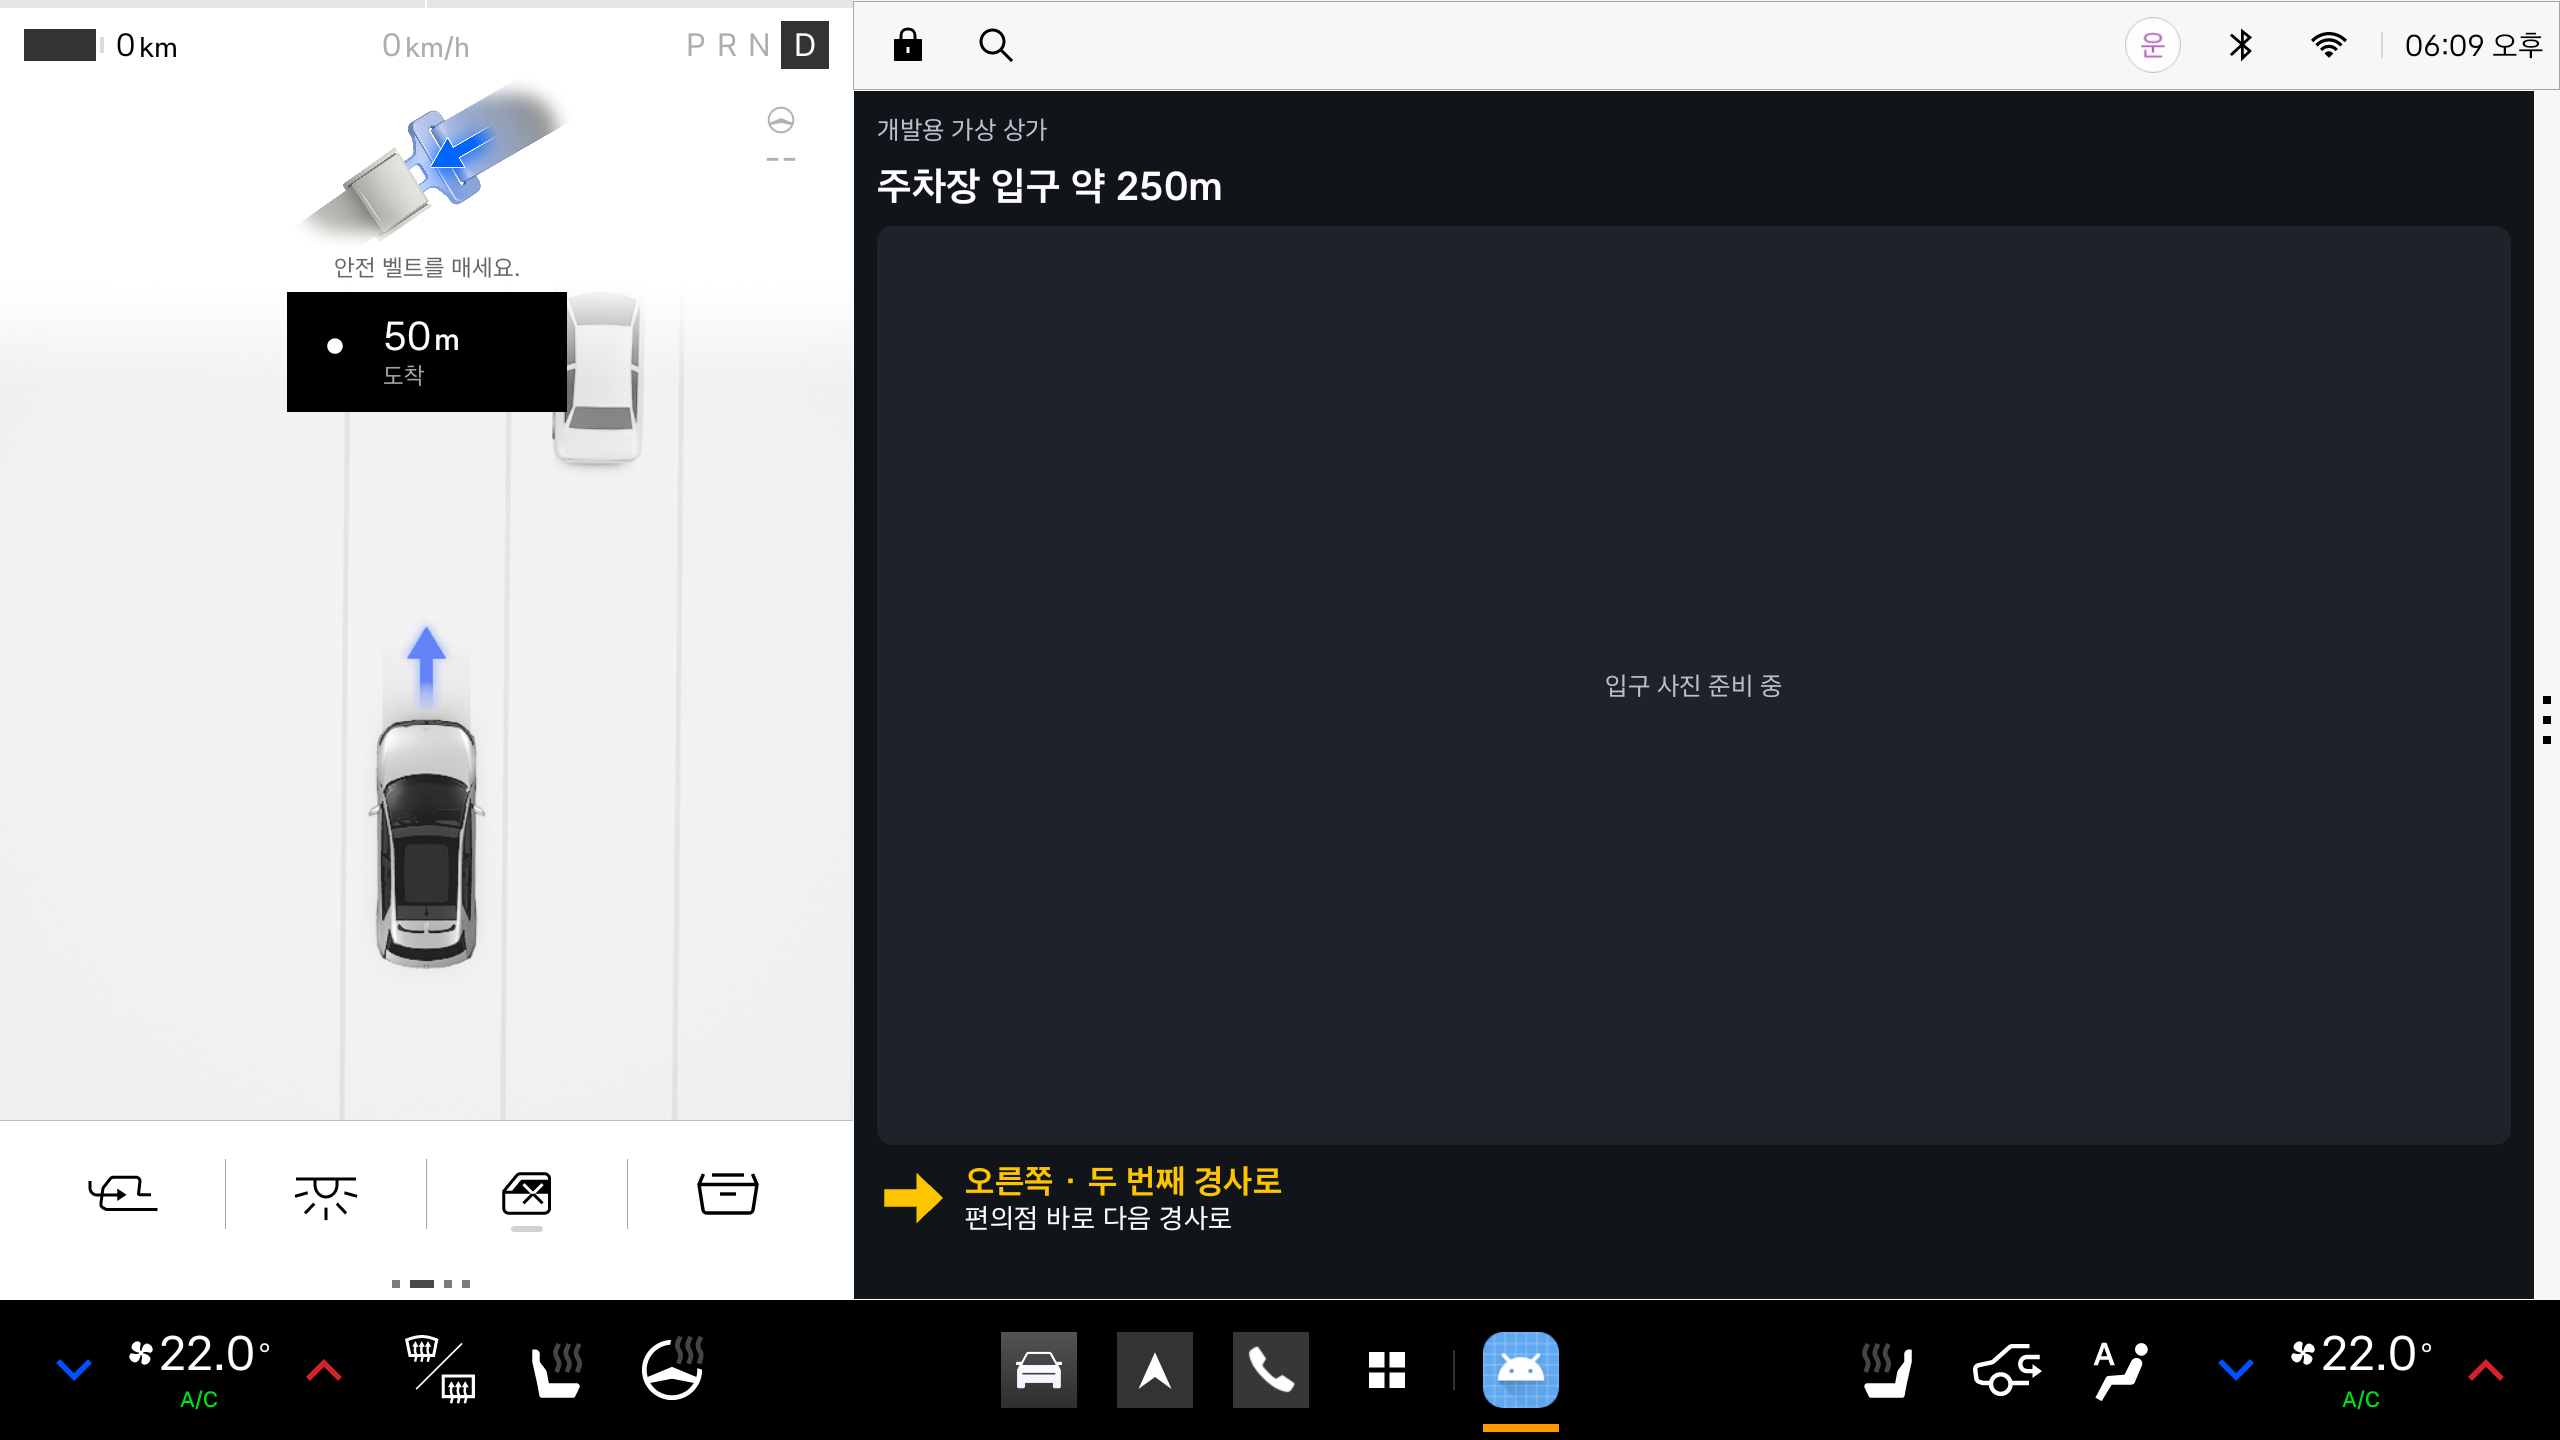
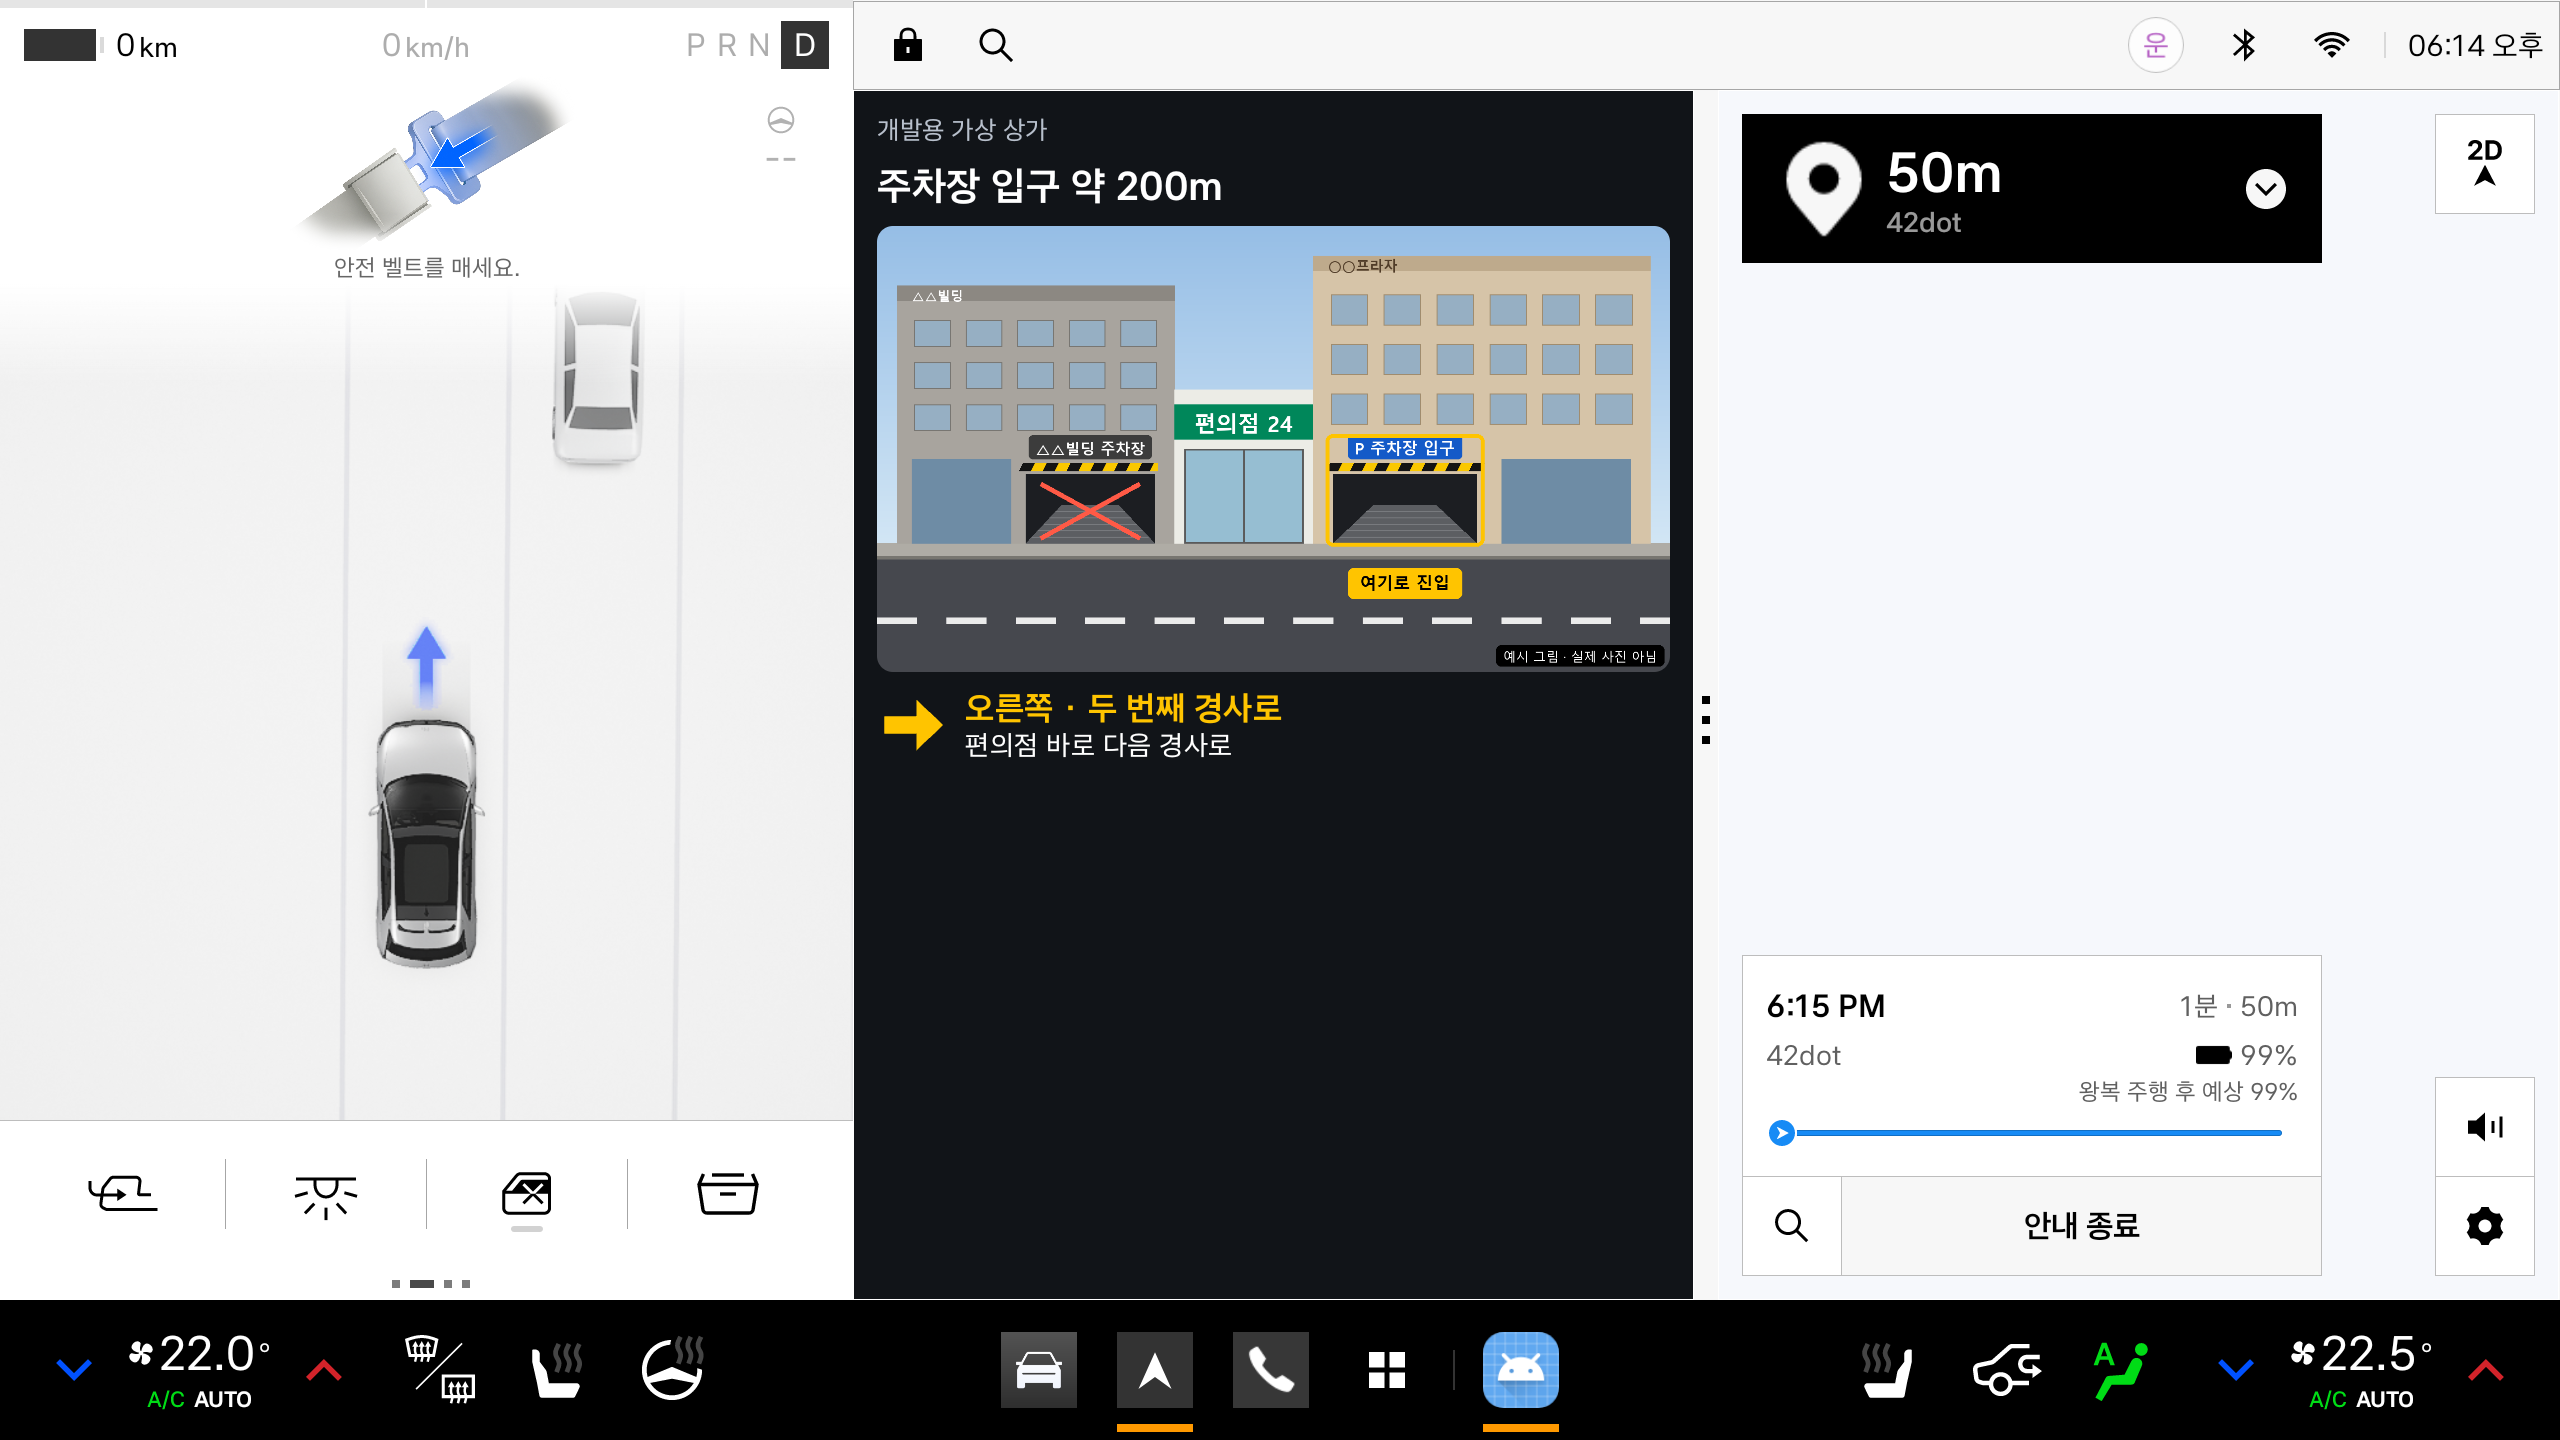
Add illustrated example entrance images and show near photo at the entrance
The two images are drawings marked as examples, not real photos. They stand in
until the team collects real entrance photos. tools/draw_example_entrance.py
regenerates them.

diff --git a/app/src/main/java/com/lastmeter/parking/ui/GuidanceScreen.kt b/app/src/main/java/com/lastmeter/parking/ui/GuidanceScreen.kt
@@ -96,13 +96,19 @@ private fun ApproachCard(facility: Facility, entrance: Entrance, distanceM: Doub
 private fun AtEntranceCard(entrance: Entrance, distanceM: Double) {
     Column(
         modifier = Modifier.fillMaxSize(),
-        verticalArrangement = Arrangement.spacedBy(24.dp),
+        verticalArrangement = Arrangement.spacedBy(20.dp),
         horizontalAlignment = Alignment.CenterHorizontally,
     ) {
-        Spacer(Modifier.height(24.dp))
-        SideArrow(entrance.roadSide, size = 220)
-        Text(SpeechTexts.orderLine(entrance.roadSide, entrance.orderFromApproach), color = Accent, fontSize = 48.sp, fontWeight = FontWeight.Bold)
-        Text(entrance.landmark, color = TextMain, fontSize = 32.sp)
+        Row(verticalAlignment = Alignment.CenterVertically) {
+            SideArrow(entrance.roadSide, size = 150)
+            Spacer(Modifier.size(12.dp))
+            Column {
+                Text(SpeechTexts.orderLine(entrance.roadSide, entrance.orderFromApproach), color = Accent, fontSize = 44.sp, fontWeight = FontWeight.Bold)
+                Text(entrance.landmark, color = TextMain, fontSize = 30.sp)
+            }
+        }
+        // 입구 바로 앞에서는 정면 사진으로 "이 모양 입구"를 확인시킨다
+        EntrancePhoto(entrance.photoNear ?: entrance.photoFar)
         entrance.confusers.firstOrNull()?.let { c ->
             Box(
                 modifier = Modifier.fillMaxWidth().clip(RoundedCornerShape(16.dp)).background(Warn).padding(20.dp),

diff --git a/tools/draw_example_entrance.py b/tools/draw_example_entrance.py
@@ -1,0 +1,149 @@
+"""시험용 입구 '예시 그림' 두 장을 그린다 (실제 사진 아님).
+far: 맞은편 인도에서 본 거리. 왼쪽부터 옆 건물(첫 번째 경사로) - 편의점 - 목적지 건물(두 번째 경사로)
+near: 목적지 건물 경사로 정면
+"""
+import sys
+from PIL import Image, ImageDraw, ImageFont
+
+OUT = sys.argv[1]
+FONT = "C:/Windows/Fonts/malgunbd.ttf"
+FONT_R = "C:/Windows/Fonts/malgun.ttf"
+
+
+def font(size, bold=True):
+    return ImageFont.truetype(FONT if bold else FONT_R, size)
+
+
+def sky_and_road(d, W, H, horizon):
+    for y in range(horizon):  # 하늘 그라데이션
+        t = y / horizon
+        c = (int(150 + 60 * t), int(190 + 40 * t), int(230 + 15 * t))
+        d.line([(0, y), (W, y)], fill=c)
+    d.rectangle([0, horizon, W, H], fill=(70, 72, 78))  # 도로
+    d.rectangle([0, horizon, W, horizon + 26], fill=(175, 172, 165))  # 건너편 인도
+    d.rectangle([0, horizon + 26, W, horizon + 32], fill=(120, 118, 112))  # 연석
+
+
+def window_grid(d, x0, y0, x1, y1, cols, rows, frame, glass):
+    cw = (x1 - x0) / cols
+    rh = (y1 - y0) / rows
+    for r in range(rows):
+        for c in range(cols):
+            a = x0 + c * cw + cw * 0.15
+            b = y0 + r * rh + rh * 0.18
+            d.rectangle([a, b, a + cw * 0.7, b + rh * 0.62], fill=glass, outline=frame, width=2)
+
+
+def ramp(d, x0, x1, top, bottom, label, label_bg, label_fg, f):
+    """경사로 입구: 어두운 개구부 + 아래로 내려가는 바닥 + 위 간판"""
+    d.rectangle([x0, top, x1, bottom], fill=(28, 30, 34))  # 개구부
+    # 내려가는 바닥 (사다리꼴)
+    mid = (x0 + x1) / 2
+    d.polygon([(x0, bottom), (x1, bottom), (mid + (x1 - x0) * 0.22, top + (bottom - top) * 0.45),
+               (mid - (x1 - x0) * 0.22, top + (bottom - top) * 0.45)], fill=(92, 94, 98))
+    for i in range(1, 6):  # 바닥 줄무늬
+        y = bottom - (bottom - top) * 0.55 * i / 6
+        k = (x1 - x0) * (0.5 - 0.28 * i / 6)
+        d.line([(mid - k, y), (mid + k, y)], fill=(120, 122, 126), width=2)
+    # 높이 제한 바 (노랑·검정 줄)
+    bar_y = top - 22
+    d.rectangle([x0 - 6, bar_y, x1 + 6, bar_y + 16], fill=(250, 200, 0))
+    step = 24
+    for x in range(int(x0 - 6), int(x1 + 6), step * 2):
+        d.polygon([(x, bar_y), (x + step, bar_y), (x + step - 8, bar_y + 16), (x - 8, bar_y + 16)], fill=(20, 20, 20))
+    # 간판
+    tw = d.textlength(label, font=f)
+    lx = mid - tw / 2 - 14
+    d.rounded_rectangle([lx, bar_y - f.size - 26, lx + tw + 28, bar_y - 8], radius=8, fill=label_bg)
+    d.text((lx + 14, bar_y - f.size - 20), label, font=f, fill=label_fg)
+
+
+def badge(img, text):
+    d = ImageDraw.Draw(img)
+    f = font(26, bold=False)
+    tw = d.textlength(text, font=f)
+    W, H = img.size
+    d.rounded_rectangle([W - tw - 40, H - 54, W - 12, H - 12], radius=10, fill=(0, 0, 0))
+    d.text((W - tw - 26, H - 50), text, font=f, fill=(255, 255, 255))
+
+
+def draw_far():
+    W, H = 1600, 900
+    img = Image.new("RGB", (W, H))
+    d = ImageDraw.Draw(img)
+    horizon = 640
+    sky_and_road(d, W, H, horizon)
+
+    # 옆 건물 (회색, 첫 번째 경사로)
+    d.rectangle([40, 150, 600, horizon], fill=(168, 164, 158))
+    window_grid(d, 60, 175, 580, 430, 5, 3, (120, 118, 114), (150, 175, 195))
+    d.rectangle([40, 120, 600, 150], fill=(140, 136, 130))
+    d.text((70, 122), "△△빌딩", font=font(26), fill=(255, 255, 255))
+    ramp(d, 300, 560, 500, horizon, "△△빌딩 주차장", (60, 60, 60), (255, 255, 255), font(30))
+    d.rectangle([70, 470, 270, horizon], fill=(110, 140, 165))  # 로비 유리문
+
+    # 편의점 (가운데, 낮은 건물)
+    d.rectangle([600, 330, 880, horizon], fill=(236, 236, 230))
+    d.rectangle([600, 360, 880, 430], fill=(0, 135, 90))
+    d.text((640, 368), "편의점 24", font=font(44), fill=(255, 255, 255))
+    d.rectangle([620, 450, 860, horizon], fill=(150, 190, 210), outline=(90, 90, 90), width=3)
+    d.line([(740, 450), (740, horizon)], fill=(90, 90, 90), width=3)
+
+    # 목적지 건물 (베이지, 두 번째 경사로)
+    d.rectangle([880, 90, 1560, horizon], fill=(214, 196, 168))
+    window_grid(d, 900, 120, 1540, 420, 6, 3, (160, 140, 110), (150, 175, 195))
+    d.rectangle([880, 60, 1560, 90], fill=(190, 170, 140))
+    d.text((910, 60), "○○프라자", font=font(28), fill=(80, 60, 40))
+    ramp(d, 920, 1210, 500, horizon, "P 주차장 입구", (20, 90, 200), (255, 255, 255), font(32))
+    d.rectangle([1260, 470, 1520, horizon], fill=(110, 140, 165))  # 로비
+
+    # 차선
+    for x in range(0, W, 140):
+        d.rectangle([x, 790, x + 80, 802], fill=(235, 235, 235))
+
+    # 안내 표시: 목적지 입구를 노란 테두리로 강조
+    d.rounded_rectangle([905, 420, 1225, horizon + 6], radius=14, outline=(255, 196, 0), width=8)
+    lf = font(34)
+    lw = d.textlength("여기로 진입", font=lf)
+    d.rounded_rectangle([1065 - lw / 2 - 24, 690, 1065 + lw / 2 + 24, 752], radius=12, fill=(255, 196, 0))
+    d.text((1065 - lw / 2, 696), "여기로 진입", font=lf, fill=(0, 0, 0))
+    # 첫 번째 경사로 X 표시
+    d.line([(330, 520), (530, horizon - 10)], fill=(255, 90, 70), width=10)
+    d.line([(530, 520), (330, horizon - 10)], fill=(255, 90, 70), width=10)
+
+    badge(img, "예시 그림 · 실제 사진 아님")
+    img.save(f"{OUT}/dev-001-in-1-far.png", optimize=True)
+
+
+def draw_near():
+    W, H = 1600, 900
+    img = Image.new("RGB", (W, H))
+    d = ImageDraw.Draw(img)
+    horizon = 780
+    sky_and_road(d, W, H, horizon)
+
+    # 왼쪽 편의점 일부
+    d.rectangle([0, 300, 330, horizon], fill=(236, 236, 230))
+    d.rectangle([0, 330, 330, 420], fill=(0, 135, 90))
+    d.text((24, 342), "편의점 24", font=font(54), fill=(255, 255, 255))
+    d.rectangle([20, 450, 310, horizon], fill=(150, 190, 210), outline=(90, 90, 90), width=3)
+
+    # 목적지 건물 정면
+    d.rectangle([330, 40, 1600, horizon], fill=(214, 196, 168))
+    window_grid(d, 360, 60, 1580, 300, 6, 1, (160, 140, 110), (150, 175, 195))
+    ramp(d, 420, 1160, 470, horizon, "P 주차장 입구  ENTRANCE", (20, 90, 200), (255, 255, 255), font(46))
+    # 높이 제한 표지
+    d.ellipse([1220, 420, 1400, 600], fill=(255, 255, 255), outline=(220, 30, 30), width=16)
+    d.text((1252, 470), "2.3m", font=font(52), fill=(0, 0, 0))
+    d.text((1230, 610), "높이 제한", font=font(36), fill=(60, 40, 20))
+    # 요금 안내판
+    d.rounded_rectangle([1220, 670, 1560, horizon - 10], radius=8, fill=(30, 60, 120))
+    d.text((1240, 684), "10분 1,000원 · 24시간", font=font(26, bold=False), fill=(255, 255, 255))
+
+    badge(img, "예시 그림 · 실제 사진 아님")
+    img.save(f"{OUT}/dev-001-in-1-near.png", optimize=True)
+
+
+draw_far()
+draw_near()
+print("ok")
